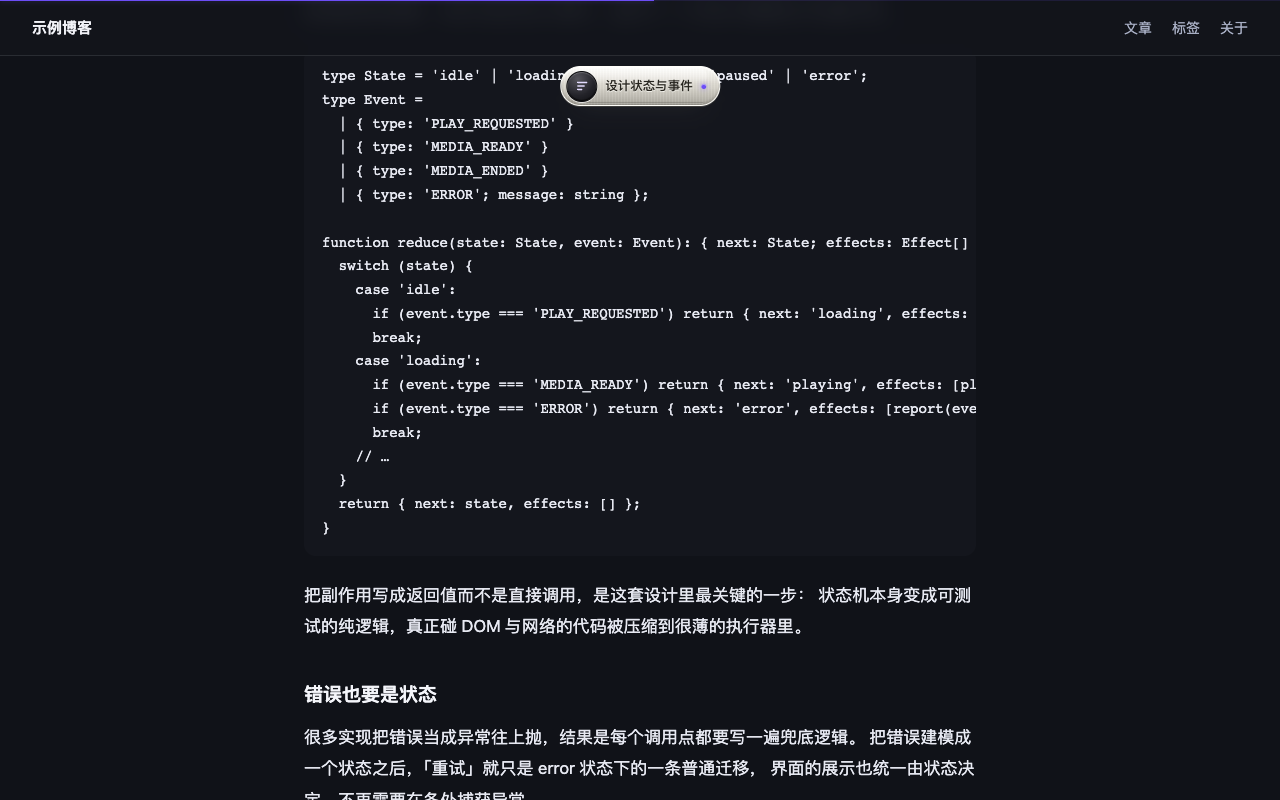
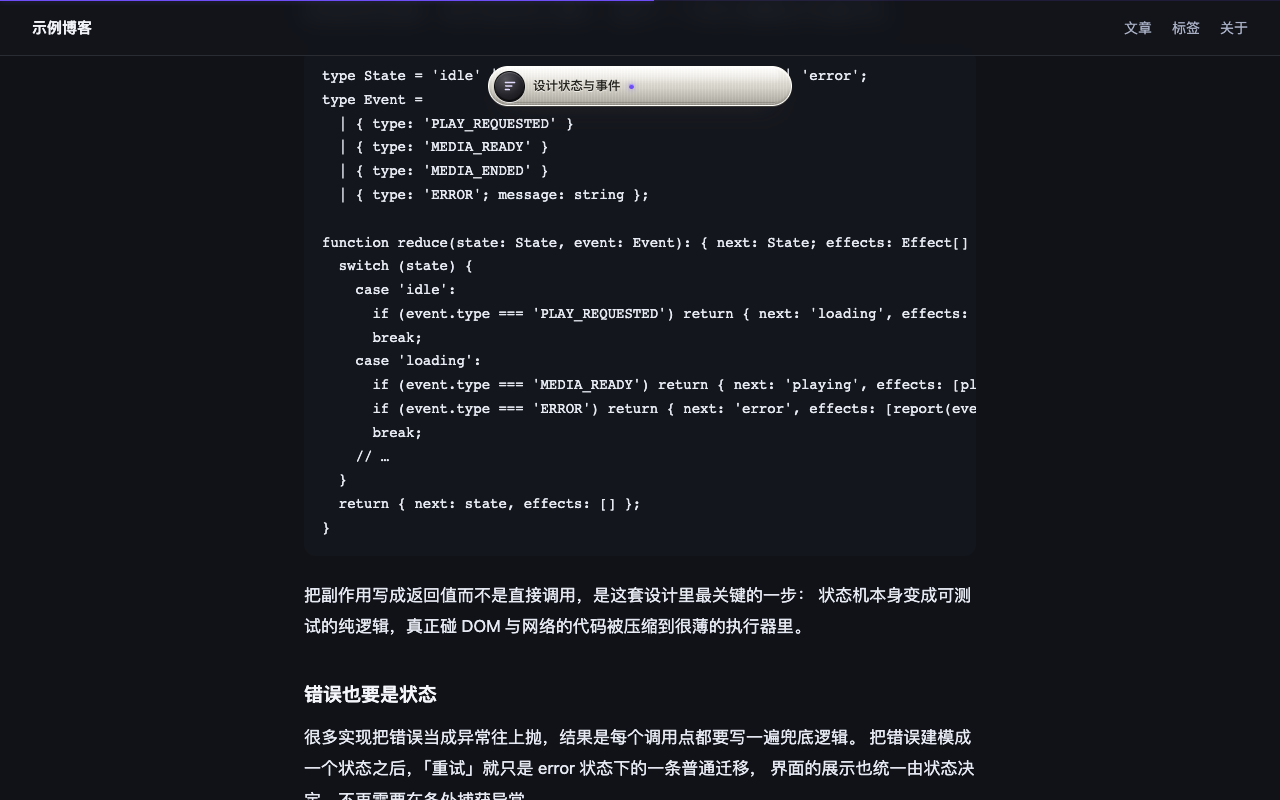
v0.13.1: stabilize anchored capsule layout

Changed region(s): [[0.375, 0.0625, 0.625, 0.1562]]

diff --git a/src/content/style.css b/src/content/style.css
@@ -131,7 +131,6 @@
 }
 
 .wss-root[data-dragging='true'] .wss-pill {
-  scale: 1.015;
   cursor: grabbing;
 }
 
@@ -145,8 +144,8 @@
   align-items: center;
   gap: 8px;
   box-sizing: border-box;
+  width: min(304px, calc(100vw - 32px));
   height: 40px;
-  max-width: min(calc(100vw - 32px), 460px);
   padding: 0 13px 0 5px;
   overflow: hidden;
   border: 1px solid var(--wss-case-edge);
@@ -168,7 +167,7 @@
   cursor: grab;
   user-select: none;
   pointer-events: auto;
-  transition: box-shadow 0.18s ease, scale 0.16s ease;
+  transition: box-shadow 0.18s ease;
 }
 
 .wss-pill::before {
@@ -199,7 +198,6 @@
 
 .wss-pill:hover,
 .wss-pill:focus-within {
-  scale: 1.008;
   box-shadow:
     inset 0 1px 1px rgb(255 255 255 / 92%),
     inset 0 -2px 2px color-mix(in srgb, var(--wss-case-seam) 38%, transparent),
@@ -208,7 +206,6 @@
 }
 
 .wss-pill:active {
-  scale: 0.998;
   box-shadow:
     inset 0 2px 3px color-mix(in srgb, var(--wss-case-seam) 40%, transparent),
     0 1px 0 rgb(255 255 255 / 34%);
@@ -271,38 +268,49 @@
 .wss-below {
   position: absolute;
   z-index: 1;
-  top: calc(100% - 4px);
-  left: 50%;
+  top: calc(100% + 6px);
+  left: 0;
   display: flex;
   flex-direction: column;
-  width: max-content;
-  max-width: min(86vw, 340px);
-  transform: translateX(-50%);
+  width: 100%;
   pointer-events: none;
 }
 
 .wss-below[data-placement='above'] {
   top: auto;
-  bottom: calc(100% - 4px);
+  bottom: calc(100% + 6px);
 }
 
-.wss-root[data-drawer-align='left'] .wss-below {
-  left: 0;
-  transform: none;
+.wss-below::before {
+  content: '';
+  position: absolute;
+  z-index: -1;
+  top: -5px;
+  right: 8%;
+  left: 8%;
+  height: 10px;
+  border-radius: 50%;
+  background: color-mix(in srgb, var(--wss-panel-shadow) 62%, transparent);
+  filter: blur(5px);
+  opacity: 0;
+  pointer-events: none;
+  transition: opacity 0.16s ease;
 }
 
-.wss-root[data-drawer-align='right'] .wss-below {
-  right: 0;
-  left: auto;
-  transform: none;
+.wss-below[data-placement='above']::before {
+  top: auto;
+  bottom: -5px;
+}
+
+.wss-root:has(.wss-drawer.is-open) .wss-below::before {
+  opacity: 0.72;
 }
 
 .wss-drawer {
   position: relative;
   isolation: isolate;
   box-sizing: border-box;
-  width: 304px;
-  max-width: min(86vw, 340px);
+  width: 100%;
   max-height: var(--wss-drawer-max-height, min(62vh, 520px));
   padding: 17px 10px 10px;
   overflow: auto;
@@ -324,13 +332,11 @@
   color: var(--wss-panel-fg);
   opacity: 0;
   translate: 0 -5px;
-  scale: 0.99;
   visibility: hidden;
   transform-origin: 50% 0;
   transition:
     opacity 0.16s ease,
     translate 0.16s ease,
-    scale 0.16s ease,
     visibility 0s 0.16s;
   pointer-events: auto;
   overscroll-behavior: contain;
@@ -341,12 +347,10 @@
 .wss-drawer.is-open {
   opacity: 1;
   translate: 0 0;
-  scale: 1;
   visibility: visible;
   transition:
     opacity 0.16s ease,
     translate 0.16s ease,
-    scale 0.16s ease,
     visibility 0s;
 }
 

diff --git a/src/content/ui.ts b/src/content/ui.ts
@@ -538,7 +538,7 @@ export class StickyUI {
 
   /**
    * 自由拖动后，目录不能仍然假设自己在顶部。
-   * 下方空间不足就向上展开，左右空间不足就换边，保证控件始终留在视口内。
+   * 下方空间不足就向上展开；两者共享左边缘，宽度固定所以不需要横向换边。
    */
   private layoutDrawer(): void {
     const root = this.root;
@@ -559,15 +559,6 @@ export class StickyUI {
     const maxHeight = Math.max(96, Math.min(520, Math.floor(availableHeight)));
     below.dataset.placement = placement;
     root.style.setProperty('--wss-drawer-max-height', `${maxHeight}px`);
-
-    if (!this.floatingPosition) {
-      root.dataset.drawerAlign = this.position === 'top-right' ? 'right' : 'center';
-      return;
-    }
-
-    const leftSpace = rect.left - margin;
-    const rightSpace = window.innerWidth - rect.right - margin;
-    root.dataset.drawerAlign = rightSpace >= leftSpace ? 'left' : 'right';
   }
 
   private handleViewportResize = (): void => {

diff --git a/src/popup/popup.html b/src/popup/popup.html
@@ -277,7 +277,7 @@
 
     <footer>
       <button class="link" id="options" type="button">更多设置</button>
-      <span id="version">v0.13.0</span>
+      <span id="version">v0.13.1</span>
     </footer>
 
     <script type="module" src="./popup.ts"></script>

diff --git a/README.md b/README.md
@@ -14,7 +14,8 @@ TopClip 现在只有一种稳定形态：**可自由拖动的拟物章节胶囊*
 
 - 胶囊显示当前章节标题，不复制网页标题、不伪造页面结构。
 - 胶囊可拖到视口内任何位置，位置按站点记忆，双击恢复默认位置。
-- 靠近屏幕底部时，目录自动向上展开；靠近左右边缘时自动换边。
+- 胶囊与目录使用同一条左边缘和固定宽度，标题变长也不会改变位置或宽度。
+- 靠近屏幕底部时，目录自动向上展开；两者之间保留明确但克制的间距。
 - 窗口缩放后会重新夹在可视区域内，不会留下一个点不到的控件。
 - 胶囊采用拉丝金属外壳与深色内嵌目录屏：实体高光、机械缝线、状态灯和一致的字体层级。
 - 目录不显示额外滚动条，仍可使用滚轮、触控板和键盘滚动。

diff --git a/store/listing.md b/store/listing.md
@@ -26,7 +26,7 @@ TopClip —— 读长文，不掉线。
 - 悬停查看按标题树组织的完整目录，点击平滑跳转到对应章节
 - 页面顶部 1px 紫色细线显示整篇文章进度，不依赖网页配色
 - 智能 / 常驻两种显示策略：向下阅读时浮现，或始终显示
-- 靠近视口边缘自动换边，拖到下方时目录向上展开
+- 胶囊与目录左边缘对齐、宽度固定，标题变化不会抖动；拖到下方时目录向上展开
 - 原站已有目录时自动退让，避免两套目录互相干扰
 - 页面查找、站点对话框和其它高层浮层出现时主动让位
 - 智能识别长文与文档；列表页、搜索页、营销页和 AI 聊天页保持静默
